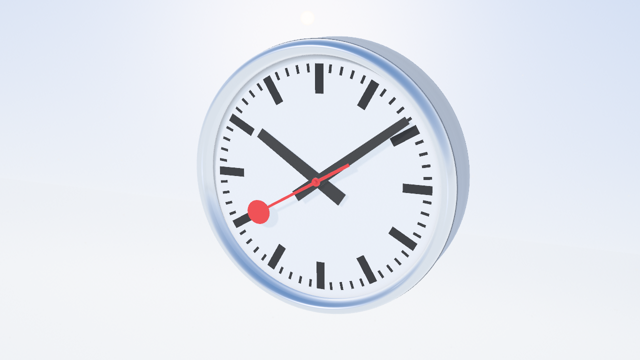
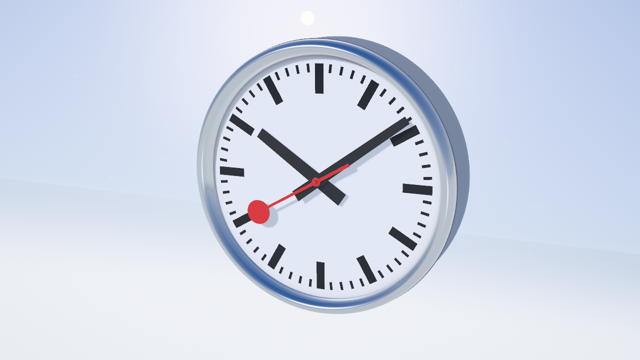
Winter sky: deeper cold blue, less glare on the hands
Claude-Session: https://claude.ai/code/session_013uv1u3G6uXKR5Gx8cALP9N

diff --git a/web/js/sky.js b/web/js/sky.js
@@ -33,10 +33,10 @@ export const SKIES = {
   },
   winter: {
     label: 'Winter · cold clear sky, snowy ground',
-    zenith: [0.22, 0.36, 0.62], horizon: [0.82, 0.86, 0.92], ground: [0.85, 0.88, 0.92],
+    zenith: [0.1, 0.22, 0.52], horizon: [0.55, 0.64, 0.78], ground: [0.8, 0.84, 0.9],
     sun: [-26, 16], sunColor: [1.0, 0.9, 0.78], sunSize: 0.9, glow: 0.8,
     cover: 0.28, cloudLight: [1.2, 1.2, 1.25], cloudDark: [0.62, 0.66, 0.74], cloudScale: 0.8, wind: 0.006,
-    haze: 0.5, intensity: 1.45, light: [[0.95, 0.94, 1.0], 2.3], env: 0.9, shadowSoft: 1.3, tilt: 18,
+    haze: 0.35, intensity: 1.25, light: [[0.95, 0.94, 1.0], 2.3], env: 0.75, shadowSoft: 1.3, tilt: 18,
     particles: 'flurries',
   },
   sunset: {
